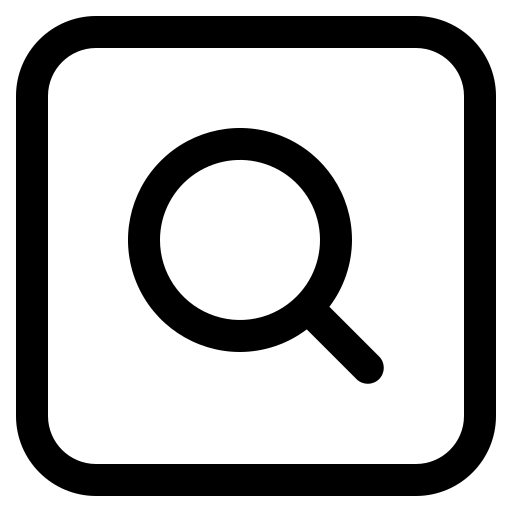
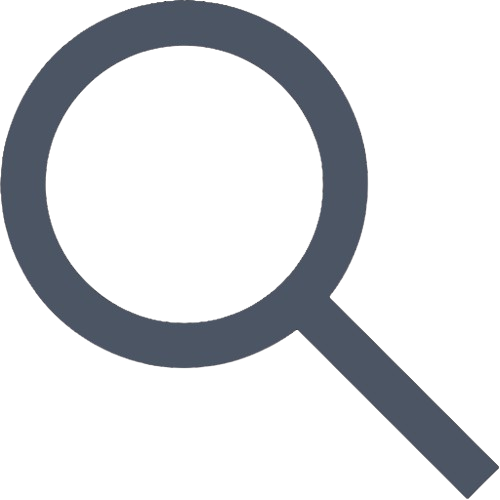
Search

diff --git a/src/components/General/Header/Header.jsx b/src/components/General/Header/Header.jsx
@@ -2,84 +2,100 @@ import { Link } from 'react-router-dom';
 import { useContext, useState } from 'react';
 import shoppingCart from '../../../assets/shopping-cart.png'
 import userIcon from '../../../assets/user.png'
+import searchIcon from '../../../assets/search.png'
+import cruz from '../../../assets/cruz.png'
 import { ProyectContext } from '../../../context/ProyectContext.jsx';
-import './Header.css'
 import { useAuthContext } from '../../../context/AuthContext.jsx';
+import './Header.css'
+
 
 const Header = () =>{
   const { isHovered, setIsHovered, activeSection} = useContext(ProyectContext);
   const { user } = useAuthContext();
   const [open, setOpen] = useState(false);
+  const [openSearch, setOpenSearch] = useState(false);
+
+  const handleCloseSearch = () => {
+    console.log("Cerrando search");
+    
+    if(openSearch){
+      setOpenSearch(false);
+      document.querySelector('.search-container').style.display = 'none';
+    } else {
+      setOpenSearch(true);
+      document.querySelector('.search-container').style.display = 'flex';
+    }
+  }
 
   return (
-    <header>
+    <div className='header-container'>
+      <header>
 
-      {/* BOTÓN HAMBURGUESA */}
-      <button className="hamburger" onClick={() => setOpen(!open)}>
-        <span className={open ? "line open" : "line"}></span>
-        <span className={open ? "line open" : "line"}></span>
-        <span className={open ? "line open" : "line"}></span>
-      </button>
+        {/* BOTÓN HAMBURGUESA */}
+        <button className="hamburger" onClick={() => setOpen(!open)}>
+          <span className={open ? "line open" : "line"}></span>
+          <span className={open ? "line open" : "line"}></span>
+          <span className={open ? "line open" : "line"}></span>
+        </button>
 
-      <li className='logo-container'>
-        <Link to={'/'}> <h1 className='logo'>ÁGO<p>RA</p></h1> </Link>
-      </li>
+        <li className='logo-container'>
+          <Link to={'/'}> <h1 className='logo'>ÁGO<p>RA</p></h1> </Link>
+        </li>
 
-      <div className='search-container'>
-        <input type="search" />
-      </div>
+        {/* NAV — AHORA TIENE className open */}
+        <div className='nav-container'>
+          <nav className={open ? "open" : ""}>
+            <ul>
+              <li> 
+                <Link 
+                  to={'products'} 
+                  className={activeSection === 'products' ? 'active-link' : ''}
+                > Productos </Link> 
+              </li>
 
-      {/* NAV — AHORA TIENE className open */}
-      <nav className={open ? "open" : ""}>
-        <ul>
-          <li> 
-            <Link 
-              to={'products'} 
-              className={activeSection === 'products' ? 'active-link' : ''}
-            > Productos </Link> 
-          </li>
+              <li> 
+                <Link 
+                  to={'contact'}
+                  className={activeSection === 'contact' ? 'active-link' : ''}
+                > Contacto</Link> 
+              </li>
 
-          <li> 
-            <Link 
-              to={'contact'}
-              className={activeSection === 'contact' ? 'active-link' : ''}
-            > Contacto</Link> 
-          </li>
+              <li> 
+                <Link 
+                  to={'help'}
+                  className={activeSection === 'help' ? 'active-link' : ''}
+                > Ayuda</Link> 
+              </li>
+            </ul>
+          </nav>
+          <div className={`icons-container hamburguericons`}>
+            <li onClick={() => setIsHovered(!isHovered)} >
+                <Link>
+                  <img src={shoppingCart} className='shopping-cart'/>
+                </Link>
+              </li>
 
-          <li> 
-            <Link 
-              to={'help'}
-              className={activeSection === 'help' ? 'active-link' : ''}
-            > Ayuda</Link> 
-          </li>
+              <li>
+                <Link to={user ? `/${user}` : '/login'}>
+                  <img src={userIcon} className='shopping-cart'/>
+                </Link>
+              </li>
+              <li>
+                
+                <img src={searchIcon} alt="search-icon" className='search-icon' onClick={handleCloseSearch} />
+              
+              </li>
+          </div>
+        </div>
+      </header>
 
-          {/* <li onClick={() => setIsHovered(!isHovered)} >
-            <Link>
-              <img src={shoppingCart} className='shopping-cart'/>
-            </Link>
-          </li>
-
-          <li>
-            <Link to={user ? `/${user}` : '/login'}>
-              <img src={userIcon} className='shopping-cart'/>
-            </Link>
-          </li> */}
-        </ul>
-      </nav>
-      <div className={`icons-container hamburguericons`}>
-         <li onClick={() => setIsHovered(!isHovered)} >
-            <Link>
-              <img src={shoppingCart} className='shopping-cart'/>
-            </Link>
-          </li>
-
-          <li>
-            <Link to={user ? `/${user}` : '/login'}>
-              <img src={userIcon} className='shopping-cart'/>
-            </Link>
-          </li>
-      </div>
-    </header>
+      { openSearch &&
+        <div className='search-container'>
+          <input type="search" />
+          <button onClick={handleCloseSearch}> <img src={cruz} alt="search-icon" className='search-icon'/> </button>
+        </div>
+      }
+    </div>
   )
 }
 

diff --git a/src/components/General/Header/Header.css b/src/components/General/Header/Header.css
@@ -1,12 +1,9 @@
 @import "../../../styles/variables.css";
 
-header{
-    padding: auto; 
-    padding-left: 16%;
-    padding-right: 13%;
+.header-container{
+    padding-top: 10px;
     display: flex;
-    justify-content: space-between;
-    margin-bottom: 40px;
+    flex-direction: column;
     position: sticky;
     top: 0;
     background-color: var(--color-background-primary);
@@ -14,18 +11,32 @@ header{
     box-shadow: 0 4px 16px -4px var(--color-header);
 }
 
-header > nav > ul{
+header{
+    padding: auto; 
+    padding-left: 16%;
+    padding-right: 13%;
+    display: flex;
+    justify-content: space-between;
+    /* margin-bottom: 40px; */
+    position: sticky;
+    top: 0;
+    background-color: var(--color-background-primary);
+    z-index: 100;
+    box-shadow: 0 4px 16px -4px var(--color-header);
+}
+
+header > div > nav > ul{
     display: flex; 
     margin-top: 30px; 
     justify-content: space-around;
 }
 
-header > nav > ul > li {
+header > div > nav > ul > li {
     padding-right: 30px;
 }
 
-header nav ul li a,
-header nav ul li a:visited { 
+header div nav ul li a,
+header div nav ul li a:visited { 
     text-decoration: none;
     font-family: var(--font-main);
     color: var(--color-text-secondary); 
@@ -34,8 +45,14 @@ header nav ul li a:visited {
     font-weight: 600;
 }
 
-header nav ul li a:hover { 
+header div nav ul li a:hover { 
     color: var(--color-text-primary); 
+}
+
+.nav-container{
+    display: flex;
+    justify-content: space-between; 
+    margin-left: auto;
 }
 
 .logo-container h1{
@@ -76,20 +93,30 @@ header nav ul li a:hover {
 }
 
 .search-container{
-    width: 90%;
-    margin-top: 18px; 
+    width: 100%;
+    background-color: var(--color-background-primary);
+    box-shadow: 0 4px 80px -4px var(--color-header);
+    padding-bottom: 20px;
+    padding-top: 20px;
     display: flex;
-    justify-content: flex-end;
 }
 
-header > .search-container > input{
-    width: 50%;
-    height: 30px;
-    border-radius: 2px;
+.search-container > input{
+    width: 40%;
+    margin-left: 30%;
+    height: 35px;
+    border-radius: 7px;
     border: 1px solid var(--color-text-primary);
-    margin-right: 10px;
-    margin-top: 10px;
-    margin-left: auto;
+    padding-bottom: 10px;
+    padding-top: 10px;
+}
+
+.search-container > button{
+    margin-right: 30%;
+    margin-left: 10px;
+    background-color: var(--color-background-primary);
+    border: none;
+    font-size: 20px;
 }
 
 .active-link{
@@ -137,13 +164,19 @@ header > .search-container > input{
     margin-top: 30px; 
     justify-content: space-around;
     gap: 25px;
+    margin-left: 20px;
 }
 
 .icons-container > li:last-child{
     margin-top: 1px; 
 }
 
-
+.search-icon{
+    width: 28px;
+    height: 28px;
+    margin-top: -3px;
+    margin-left: -10px;
+}
 
 /* NAV MOBILE */
 @media (max-width: 1000px) {
@@ -184,9 +217,9 @@ header > .search-container > input{
         margin-left: 46px;
     }
 
-    .search-container {
+    /* .search-container {
         display: none;
-    }
+    } */
 
     .hamburger {
         display: flex;

diff --git a/src/components/Home/PrimaryBanner/PrimaryBanner.jsx b/src/components/Home/PrimaryBanner/PrimaryBanner.jsx
@@ -5,7 +5,7 @@ import './PrimaryBanner.css'
 const PrimaryBanner = () => {
   return (
     <div className="primary-banner">
-      <div>
+      <div style={{marginTop: '40px'}}>
         <div>
           <Text element={'important-text'} text={'ÁGORA'}/>
           <Text element={'banner'} text={'Encontra todo lo que necesitas'} />

diff --git a/src/containers/ProductsContainer.jsx b/src/containers/ProductsContainer.jsx
@@ -12,7 +12,7 @@ const ProductsContainer = ({data}) => {
 
   return (
     <div className="products-container"> 
-      <div className='items-products-container' style={{marginTop:'-30px'}}>
+      <div className='items-products-container'>
         <Text element={'title'} text={'Productos'} />
       </div>
 
